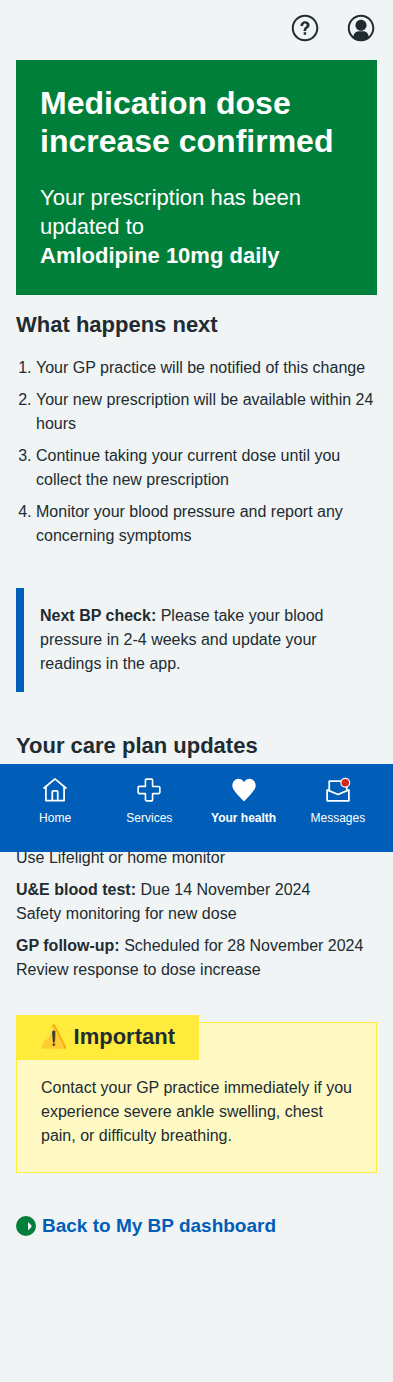
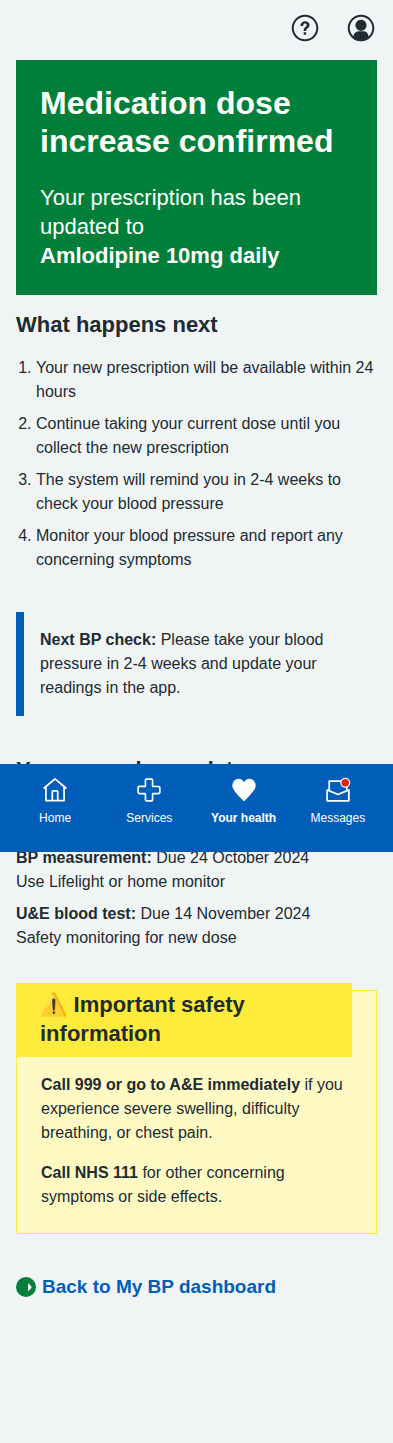
Recreate all revised screenshots with improved content based on feedback

diff --git a/prototype/v1/app/views/pages/mybp/dose-titration/confirmation.html b/prototype/v1/app/views/pages/mybp/dose-titration/confirmation.html
@@ -19,9 +19,9 @@
       <h2 class="nhsuk-heading-m">What happens next</h2>
       
       <ol class="nhsuk-list nhsuk-list--number">
-        <li>Your GP practice will be notified of this change</li>
         <li>Your new prescription will be available within 24 hours</li>
         <li>Continue taking your current dose until you collect the new prescription</li>
+        <li>The system will remind you in 2-4 weeks to check your blood pressure</li>
         <li>Monitor your blood pressure and report any concerning symptoms</li>
       </ol>
 
@@ -48,10 +48,6 @@
               <strong>U&E blood test:</strong> Due 14 November 2024
               <br><span class="nhsuk-u-secondary-text-colour">Safety monitoring for new dose</span>
             </li>
-            <li>
-              <strong>GP follow-up:</strong> Scheduled for 28 November 2024
-              <br><span class="nhsuk-u-secondary-text-colour">Review response to dose increase</span>
-            </li>
           </ul>
         </div>
       </div>
@@ -59,9 +55,10 @@
       <div class="nhsuk-warning-callout">
         <h3 class="nhsuk-warning-callout__label">
           <span role="img" aria-label="Warning">⚠</span>
-          Important
+          Important safety information
         </h3>
-        <p>Contact your GP practice immediately if you experience severe ankle swelling, chest pain, or difficulty breathing.</p>
+        <p><strong>Call 999 or go to A&E immediately</strong> if you experience severe swelling, difficulty breathing, or chest pain.</p>
+        <p><strong>Call NHS 111</strong> for other concerning symptoms or side effects.</p>
       </div>
 
       <div class="nhsuk-action-link">

diff --git a/prototype/v1/app/views/pages/mybp/dose-titration/recommendation.html b/prototype/v1/app/views/pages/mybp/dose-titration/recommendation.html
@@ -1,7 +1,7 @@
 {% extends 'layout-app.html' %}
 
 {% set hub = "Your health" %}
-{% set pageHeading = "AI recommendation" %}
+{% set pageHeading = "Medication recommendation" %}
 
 {% block beforeContent %}
   {{ backLink({
@@ -17,12 +17,12 @@
       <div class="nhsuk-notification-banner" role="region" aria-labelledby="notification-banner-title">
         <div class="nhsuk-notification-banner__header">
           <h2 class="nhsuk-notification-banner__title" id="notification-banner-title">
-            AI recommendation ready
+            Medication recommendation ready
           </h2>
         </div>
         <div class="nhsuk-notification-banner__content">
           <p class="nhsuk-notification-banner__heading">
-            After reviewing your recent blood pressure readings, NICE guidelines recommend adjusting your medication.
+            Based on your recent blood pressure readings and NICE guidelines, a medication adjustment is recommended.
           </p>
         </div>
       </div>
